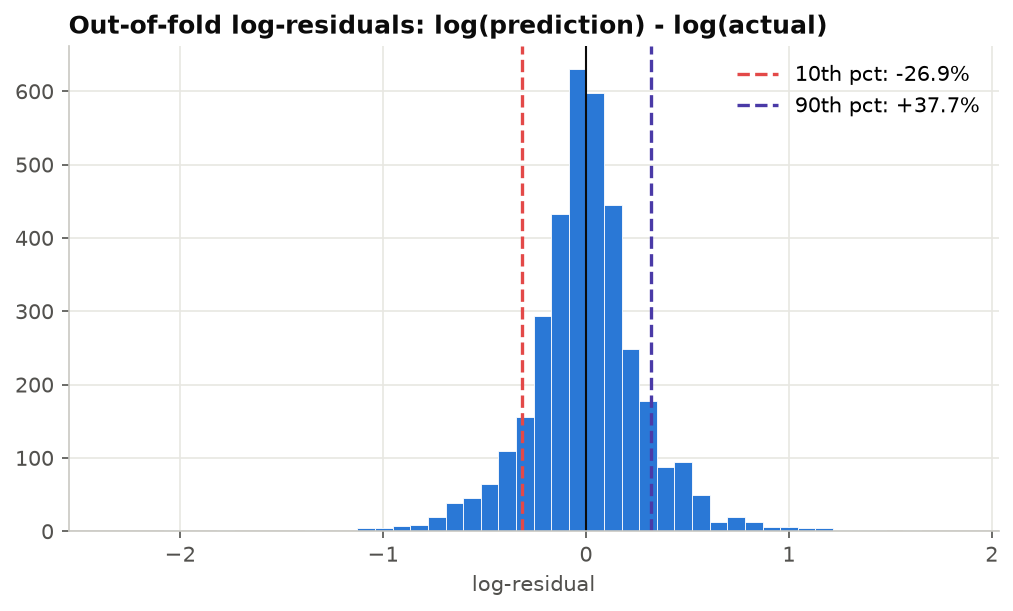
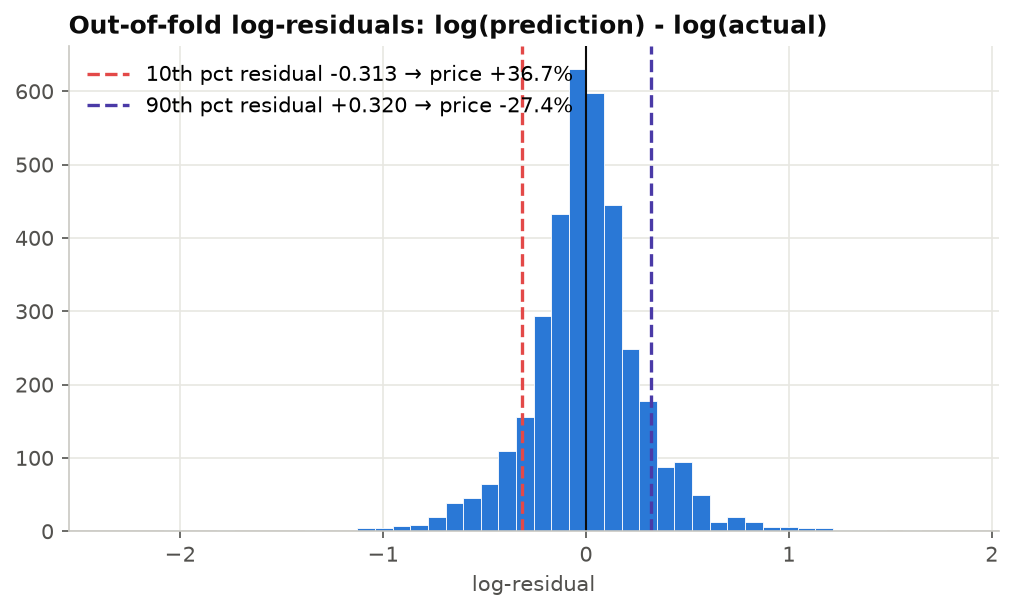
Correct the band numbers, drop the false asymmetry claim, name the data provenance

Changed region(s): [[0.0918, 0.0933, 0.5814, 0.1866], [0.7345, 0.0933, 0.9793, 0.1866], [0.7345, 0.0933, 0.7651, 0.1244]]

diff --git a/docs/index.html b/docs/index.html
@@ -704,7 +704,9 @@ footer .mono{font-size:12px; color:var(--ink-3)}
       <div class="step">
         <h3>Evaluate</h3>
         <p>5-fold cross-validation against the two rules an agent would otherwise use — sector-median ₹/sq.ft.
-           × area, and city-median ₹/sq.ft. × area. The 10th–90th percentile of the log errors becomes the band.</p>
+           × area, and city-median ₹/sq.ft. × area. The 10th–90th percentile of the log errors becomes the band:
+           −27.4% to +36.7% around the estimate. Near-symmetric in log space; the lopsided percentages are just
+           what exponentiating a symmetric log interval does.</p>
       </div>
       <div class="step">
         <h3>Ship</h3>

diff --git a/scripts/dashboard_template.html b/scripts/dashboard_template.html
@@ -704,7 +704,9 @@ footer .mono{font-size:12px; color:var(--ink-3)}
       <div class="step">
         <h3>Evaluate</h3>
         <p>5-fold cross-validation against the two rules an agent would otherwise use — sector-median ₹/sq.ft.
-           × area, and city-median ₹/sq.ft. × area. The 10th–90th percentile of the log errors becomes the band.</p>
+           × area, and city-median ₹/sq.ft. × area. The 10th–90th percentile of the log errors becomes the band:
+           −27.4% to +36.7% around the estimate. Near-symmetric in log space; the lopsided percentages are just
+           what exponentiating a symmetric log interval does.</p>
       </div>
       <div class="step">
         <h3>Ship</h3>

diff --git a/reports/MODEL_CARD.md b/reports/MODEL_CARD.md
@@ -10,10 +10,20 @@ data — see [Limitations](#limitations).
 ## Data provenance and snapshot nature
 
 - Source: `data/gurgaon/raw/gurgaon_properties.csv`, 3,803 residential listings
-  (flats and independent houses / builder floors) scraped from a property
-  portal at one point in time. There is no listing date column and no repeat
-  observations of the same property over time — this is a cross-sectional
-  snapshot, not a time series.
+  (flats and independent houses / builder floors) collected from a public
+  Indian property-listing portal at one point in time. **Which portal is not
+  recorded anywhere in this repository, so it is not named here — a guess
+  would be worse than the gap.** The column set (`areaWithType`,
+  `agePossession`, `luxury_score`) is characteristic of a listings scrape, but
+  nothing in the file, its metadata, or the pipeline identifies the site or
+  the collection date.
+  There is no listing date column and no repeat observations of the same
+  property over time — this is a cross-sectional snapshot, not a time series.
+- **Licensing.** The `LICENSE` file (MIT) covers the *code* in this repository
+  only. The committed CSV is third-party listing content, redistributed here
+  so the published numbers can be reproduced. It carries no licence grant from
+  this project; check the originating portal's terms before using it for
+  anything beyond study and reproduction.
 - After cleaning (see `data/DATA_DICTIONARY.md` and the README's Methodology
   section): 3,600 listings, 2,799 flats and 801 houses.
 - All prices are **asking prices** as listed on the portal, not confirmed
@@ -40,9 +50,13 @@ Cr, median ₹1.54 Cr, max ₹31.5 Cr) and predictions are exponentiated back to
 | `sector_ppsf` | Sector target-encoded as median ₹/sqft (see below) |
 
 Feature importances from the final trained model: `area` 0.537, `sector_ppsf`
-0.195, `bathrooms` 0.157, `is_house` 0.085 (remaining features share the
-rest). Area and the sector encoding together account for over 70% of the
-model's decisions.
+0.195, `bathrooms` 0.157, `is_house` 0.085 (the remaining four features share
+0.027 between them). Area and the sector encoding together account for 73.2%
+of the model's decisions. These come from
+`GradientBoostingRegressor.feature_importances_` and are exported verbatim to
+`models/gurgaon/model.json` under `feature_importances`; the dashboard reads
+them from the payload, and `tests/test_export.py` asserts the exported values
+equal the fitted model's.
 
 ## Fold-safe sector encoding
 
@@ -72,6 +86,16 @@ random_state   = 7
 
 No hyperparameter search was run. These defaults beat both baselines below
 on the first attempt, so no tuning grid was needed.
+
+## Reproducing these numbers
+
+Every figure in this card was produced on Python 3.12.13 with pandas 3.0.3,
+NumPy 2.5.1, scikit-learn 1.9.0, SciPy 1.18.0, joblib 1.5.3 and Matplotlib
+3.11.0 — the pinned set in `requirements.txt`. Install that file before
+`pip install -e .`. The pipeline is fully seeded (`random_state=7` for both
+the model and the `KFold` split), so those versions reproduce the metrics
+exactly; other versions may differ in the last decimal (an older scikit-learn
+gives R² 0.808 rather than 0.806).
 
 ## Cross-validation protocol
 
@@ -108,13 +132,31 @@ the expected ordering holds.
 
 `models/gurgaon/model.json` → `band`: `[-0.3127631541941217,
 0.31978747923539713]`, the 10th and 90th percentile of the out-of-fold
-log-residuals (`log(pred) - log(actual)`) across all 5 folds. Converted to a
-multiplicative range around a point estimate: **-26.9% to +37.7%**
-(`exp(-0.31276) - 1` and `exp(0.31979) - 1`). For a typical prediction, the
-true price is expected to fall within this range around the point estimate
-about 80% of the time. The band is asymmetric: the model's overestimates run
-larger in relative terms than its underestimates, consistent with the
-quintile error structure below.
+log-residuals across all 5 folds. The residual is defined as
+`log(pred) - log(actual)`, so `actual = pred * exp(-residual)` — **the sign is
+negated when the residual band becomes a price band.** The 90th-percentile
+residual (the largest overestimates) sets the *low* end of the true price and
+the 10th-percentile residual sets the *high* end:
+
+```
+lo = pred * exp(-0.31979) = pred * 0.7263   ->  -27.4%
+hi = pred * exp(+0.31276) = pred * 1.3672   ->  +36.7%
+```
+
+So the multiplicative range around a point estimate is **-27.4% to +36.7%**,
+and the true price is expected to fall inside it about 80% of the time.
+
+The percentage range is lopsided, but the band underneath it is
+near-symmetric in log space: q10 is -0.313 and q90 is +0.320, a gap of under
+0.008 log units. Exponentiating a symmetric log interval always produces a
+larger positive percentage than negative one (`exp(x) - 1 > |exp(-x) - 1|`
+for any `x > 0`), so the -27%/+37% shape is arithmetic and would look the same
+for perfectly symmetric errors. It is not evidence that the model's misses
+skew one way. The measured residual skew is in fact slightly negative
+(-0.269), which points the other way; it is small enough that the honest
+reading is "no meaningful asymmetry in the band itself". Where the errors
+genuinely are uneven is across the price range — see the quintile structure
+below.
 
 ## Error structure by price quintile
 
@@ -161,11 +203,16 @@ the model is least reliable.
   (`sector_ppsf`), a discrete label with a target-encoded median. Two
   listings in the same sector but very different micro-locations (adjacent
   to a metro stop vs. a back lane) get the same location signal.
-- **Area extrapolation is guarded, not extrapolated.** `homecast predict`
-  rejects an `area` outside the range seen in training (`fitted.ranges`,
-  from the min/max of the cleaned dataset) rather than silently
-  extrapolating a tree-based model past its training distribution, where
-  gradient-boosted trees produce flat, unreliable predictions.
+- **Out-of-range inputs are rejected, not extrapolated.** `homecast predict`
+  rejects an `area`, `bedrooms`, `bathrooms`, or `luxury_score` outside the
+  range seen in training (`fitted.ranges`, from the min/max of the cleaned
+  dataset) rather than silently extrapolating a tree-based model past its
+  training distribution, where gradient-boosted trees produce flat,
+  unreliable predictions. An unknown `sector`, `property_type`, `furnishing`,
+  or age label is rejected too, so a typo cannot quietly collapse to a
+  default. What is *not* guarded is an unusual **combination** of individually
+  in-range inputs — a 1-BHK with a top luxury score, say — which still returns
+  a confident-looking number the model has little basis for.
 - **Weakest at the low end.** Q1 (the cheapest fifth of listings) has both
   the largest systematic overestimate and the worst MAPE (27.6%) of any
   quintile — treat estimates for lower-priced properties with more caution

diff --git a/README.md b/README.md
@@ -34,10 +34,30 @@ cd homecast
 
 python3 -m venv .venv
 source .venv/bin/activate      # Windows: .venv\Scripts\activate
-pip install -e .
+
+pip install -r requirements.txt   # pinned environment that reproduces the numbers
+pip install -e .                  # then the package itself
 
 homecast train --city gurgaon
 ```
+
+`requirements.txt` is the reproducing environment: install it *before*
+`pip install -e .` so pip resolves those versions rather than the looser
+floors in `pyproject.toml`. The package's own floors are deliberately loose so
+it stays installable on older stacks — but on a much older scikit-learn the
+metrics can move in the last decimal (R² 0.808 instead of 0.806, for
+instance). Every number published in this README and in the model card was
+produced with:
+
+| Library | Version |
+|---|---|
+| Python | 3.12.13 |
+| pandas | 3.0.3 |
+| NumPy | 2.5.1 |
+| scikit-learn | 1.9.0 |
+| SciPy | 1.18.0 |
+| joblib | 1.5.3 |
+| Matplotlib | 3.11.0 |
 
 Output:
 
@@ -57,7 +77,7 @@ homecast predict --city gurgaon --sector "sector 65" --type flat \
 ```
 
 ```
-Estimated price: Rs 2.78 Cr (range 2.03 - 3.83 Cr)
+Estimated price: Rs 2.78 Cr (range 2.02 - 3.80 Cr)
 ```
 
 Note the `--city` flag comes **after** the subcommand (`homecast train --city
@@ -85,10 +105,15 @@ model: median ₹/sqft for the listing's sector, times the property's area.
 The model cuts MAE by roughly a quarter against that baseline.
 
 **The band**: each estimate ships with a range, not just a point. It's the
-10th–90th percentile of out-of-fold log-residuals, converted to a
-multiplicative range: roughly **-27% to +38%** around the point estimate.
-The band is asymmetric — the model's misses skew larger on the upside than
-the downside, in relative terms — see the error structure in Methodology.
+10th–90th percentile of out-of-fold log-residuals (residual =
+`log(pred) − log(actual)`, so `actual = pred × exp(−residual)`), converted to
+a multiplicative range: roughly **−27.4% to +36.7%** around the point
+estimate. The percentage range looks lopsided, but the band is near-symmetric
+in log space — q10 −0.313 against q90 +0.320 — and exponentiating a symmetric
+log interval always yields a wider positive percentage than negative one. The
+asymmetry is arithmetic, not a property of the model's errors. Where the
+errors really are uneven is across the price range: see the quintile
+structure in Methodology.
 
 Model parameters: `n_estimators=300, max_depth=3, learning_rate=0.06,
 subsample=0.9, random_state=7`. These are HomeCast's own default parameters
@@ -127,7 +152,9 @@ listings; predictions are collected out-of-fold, so every metric above is
 computed on rows the model never trained on for that prediction. Feature
 importances from the trained model: `area` 0.537, `sector_ppsf` 0.195,
 `bathrooms` 0.157, `is_house` 0.085 — area and sector together account for
-over 70% of the model's decisions.
+over 70% of the model's decisions. These are exported into
+`models/gurgaon/model.json` as `feature_importances`, and the dashboard reads
+them from there rather than keeping its own copy.
 
 **Error structure by price quintile** (mean signed log-residual, positive =
 overestimate): Q1 +0.129, Q2 +0.033, Q3 −0.001, Q4 −0.033, Q5 −0.129 —
@@ -158,7 +185,7 @@ on the cleaned 3,600-listing dataset (2,799 flats, 801 houses):
 
 ```
 data/
-  gurgaon/raw/gurgaon_properties.csv        # raw scraped listings (3,803 rows)
+  gurgaon/raw/gurgaon_properties.csv        # raw listing snapshot (3,803 rows, third-party data)
   gurgaon/processed/listings_clean.csv      # output of `homecast clean` (3,600 rows)
   DATA_DICTIONARY.md                        # column reference for both files
 src/homecast/
@@ -170,7 +197,7 @@ src/homecast/
   export.py       # write the browser-side model.json export
   cli.py          # `homecast` command line: clean, train, evaluate, predict, export-dashboard
   plotting.py     # shared plot styling for the notebooks
-tests/            # 44 tests covering cities, cleaning, features, model, valuation, export, CLI
+tests/            # 61 tests covering cities, cleaning, features, model, valuation, export, CLI
 notebooks/
   gurgaon_real_estate_eda.ipynb   # exploratory analysis, market findings
   valuation_model.ipynb           # model development, CV, error analysis
@@ -211,6 +238,20 @@ dashboard's in-browser predictions are plain JavaScript that walks the
 exported gradient-boosted trees directly — no ML runtime in the browser. It
 matches the Python model to about 1e-14 (tested at 1e-9 tolerance).
 
+## Data and licence
+
+The **code** in this repository is [MIT](LICENSE) licensed.
+
+The **data** is not mine to license. `data/gurgaon/raw/gurgaon_properties.csv`
+is a snapshot of residential listings from a public Indian property-listing
+portal, redistributed here so the pipeline and every published number can be
+reproduced. Nothing in the file or in this repository records which portal it
+came from or under what terms it was collected, and I am not going to guess —
+treat it as third-party listing content, use it for study and reproduction,
+and check the originating portal's terms before any other use. Prices are
+asking prices, not transactions. See [`data/DATA_DICTIONARY.md`](data/DATA_DICTIONARY.md)
+and [`reports/MODEL_CARD.md`](reports/MODEL_CARD.md).
+
 ## License
 
-[MIT](LICENSE)
+[MIT](LICENSE) — code only; see the note above for the dataset.

diff --git a/data/DATA_DICTIONARY.md b/data/DATA_DICTIONARY.md
@@ -3,12 +3,29 @@
 Two files, same listings, different stages of the pipeline:
 
 - **`data/gurgaon/raw/gurgaon_properties.csv`** — 3,803 listings x 23 columns,
-  as scraped from a property portal. Untouched raw column names.
+  as collected from a public Indian property-listing portal. Untouched raw
+  column names.
 - **`data/gurgaon/processed/listings_clean.csv`** — 3,600 listings, output of
   `homecast clean --city gurgaon` (`src/homecast/cleaning.py`). Same columns,
   renamed to snake_case, with categorical labels applied, unpriced rows
   dropped, and percentile outliers on `price_per_sqft`/`area` trimmed. See
   the README's Methodology section for the row-by-row cleaning trail.
+
+## Where this data came from, and what you may do with it
+
+The snapshot is a scrape of residential listings from a public Indian
+property-listing portal, redistributed in this repository so that every
+published number can be reproduced end to end. **Nothing in the file or in
+this repository records which portal it was taken from, or when** — no source
+URL, no collection date, no metadata block — so no specific site is named
+here. Naming one on the strength of the column layout alone would be a guess
+dressed up as a fact.
+
+The repository's `LICENSE` (MIT) covers the **code only**. The CSV is
+third-party listing content and carries no licence grant from this project.
+It is included for study and reproduction; check the originating portal's
+terms before putting it to any other use. All prices are **asking prices** as
+listed, not confirmed transaction prices.
 
 Units: `price` is in **₹ crore** (1 crore = ₹10,000,000), `price_per_sqft` is
 in **₹**, and every area column is in **sq. ft.**
